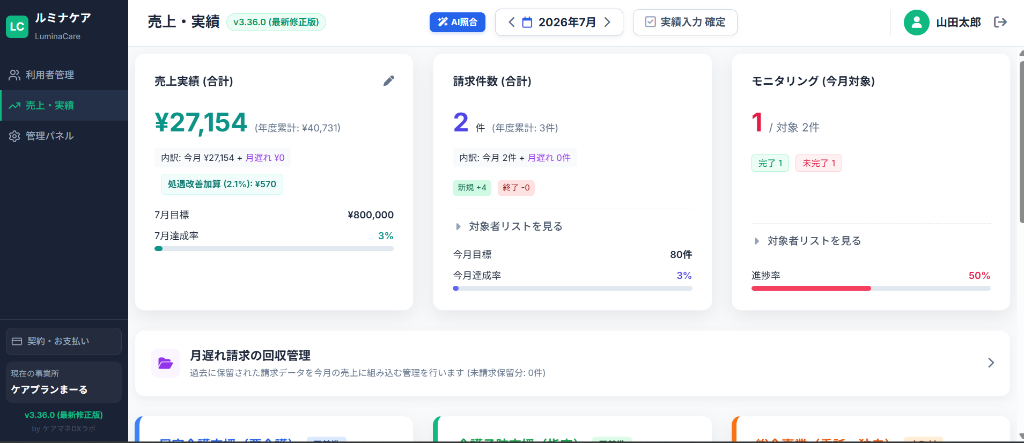
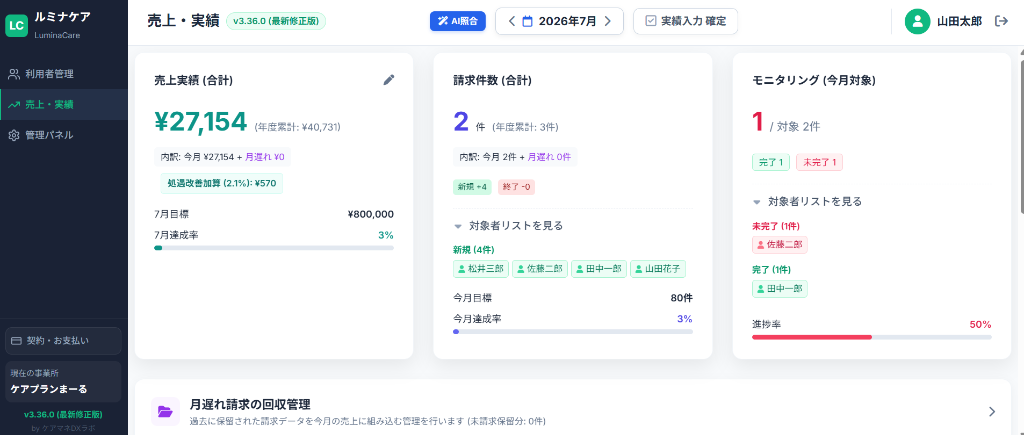
Replace LuminaCare Sales UI screenshots with latest expanded details and clean up HTML

diff --git a/index.html b/index.html
@@ -398,21 +398,6 @@
               </div>
             </div>
           </div>
-
-                  システム登録: <strong>要介護 2</strong> vs CSVデータ: <strong>要介護 3</strong> (認定更新反映のズレ)
-                </p>
-              </div>
-            </div>
-
-            <div id="csvSuccessBanner" class="status-badge badge-success" style="display: none; width: 100%; padding: 1rem; text-align: center; justify-content: center; font-size: 0.9rem;">
-              <i class="fa-solid fa-circle-check"></i> すべての不一致項目が正常に補正されました。月次請求ファイルの送信準備が完了しました。
-            </div>
-          </div>
-
-          <!-- Panel 5: Stats Dashboard -->
-          <div id="panel-stats" class="lumina-panel">
-            <div class="stats-cards-grid">
-              <div class="stat-metric-card">
                 <span style="font-size: 0.8rem; color: #94a3b8;">当月売上見込</span>
                 <div class="stat-val" id="tenantSalesCount">¥4,820,000</div>
                 <span style="font-size: 0.75rem; color: #34d399;"><i class="fa-solid fa-arrow-trend-up"></i> 前月比 +6.4%</span>
